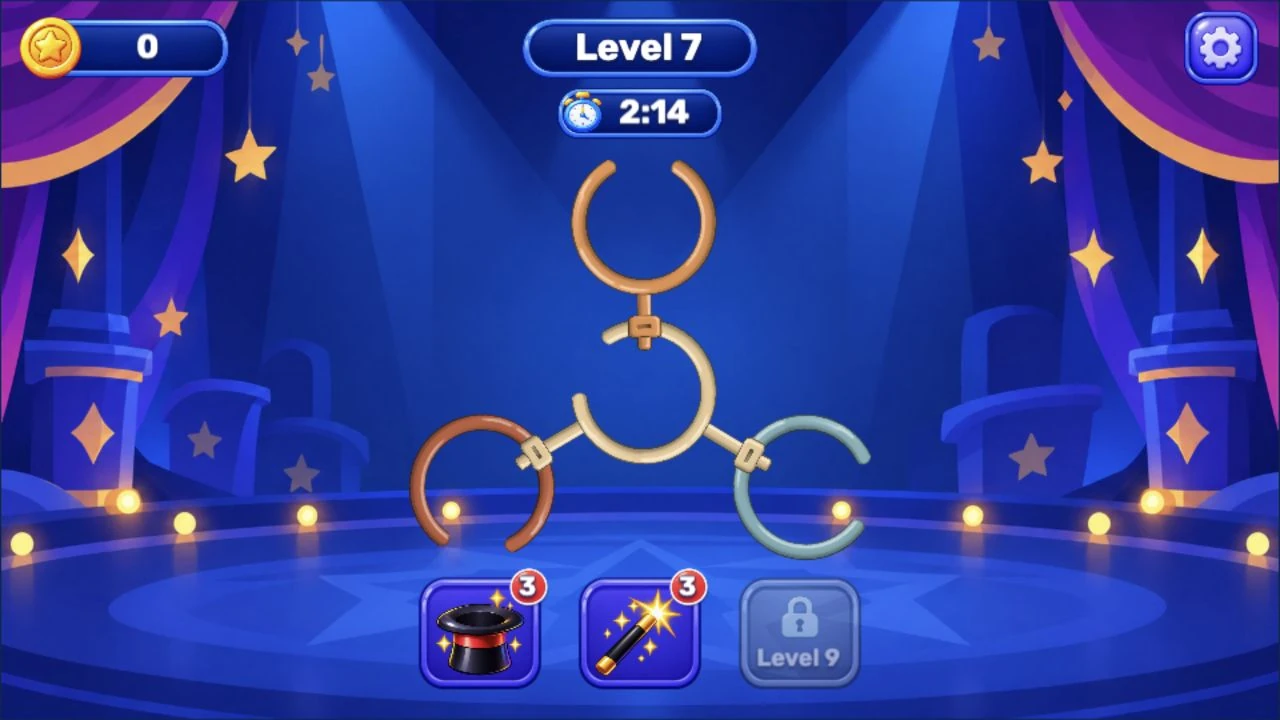
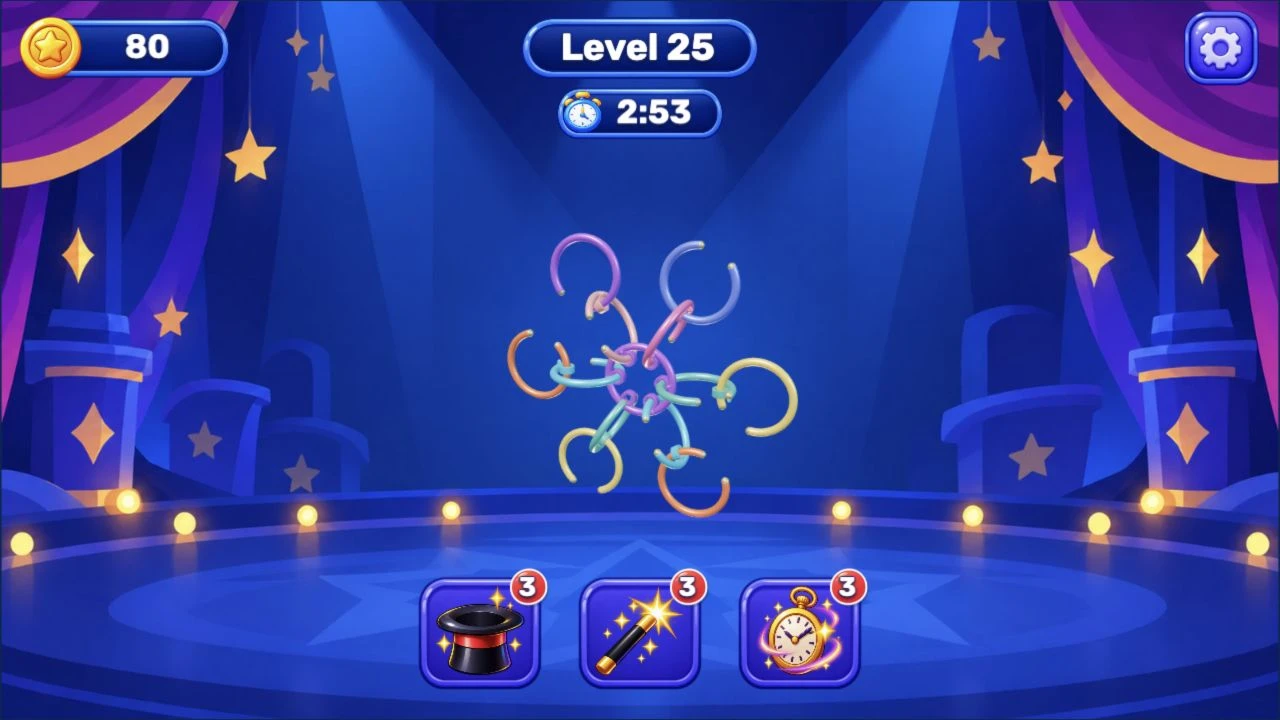
Update Rings portfolio to the Rings 3D release

diff --git a/src/content/games/ru/rings.md b/src/content/games/ru/rings.md
@@ -1,8 +1,8 @@
 ---
 locale: ru
 translationKey: rings
-title: Rings
-description: Головоломка о сцепленных кольцах и металлических фигурах. Поворачивайте и сдвигайте детали, освобождайте крепления и разбирайте конструкцию до истечения времени.
+title: Rings 3D
+description: Пространственная головоломка со 100 уровнями. Вращение сцены помогает найти нужный ракурс, а поворот кольца — освободить его из сцепленной конструкции.
 status: in-development
 genre: Пространственная головоломка
 platforms:
@@ -12,67 +12,78 @@ platforms:
   - Планшет
 technologies:
   - TypeScript 5.9
-  - PixiJS 8.16
-  - GameDevLand Engine 0.0.8
+  - PixiJS 8.22
+  - Three.js 0.187
+  - GameDevLand Engine 0.0.13
   - Vite 8
 roles:
   - Полный цикл разработки игры
-  - Архитектура и игровые системы
-  - Создание 100 уровней
-  - Интерфейс и адаптивная вёрстка
+  - Интеграция Three.js и PixiJS
+  - Создание 100 пространственных уровней
+  - Интерфейс, обучение и визуальные эффекты
 iconImage: /assets/games/rings/icon-rings.webp
-iconAlt: Два разомкнутых кольца золотого и медного цвета, соединённые креплением на синей сцене
 coverImage: /assets/games/rings/cover.webp
-coverAlt: Сцепленные металлические кольца на сцене Rings, таймер и панель усилителей
-screenshots:
-  - title: Освобождайте сцепленные детали
-    landscapeSrc: /assets/games/rings/cover.webp
-    landscapeAlt: Игровое поле Rings с кольцами и креплениями в горизонтальной ориентации
-    portraitSrc: /assets/games/rings/screens/port/gameplay.webp
-    portraitAlt: То же игровое поле Rings, адаптированное под вертикальный экран
-  - title: Разбирайте более сложные конструкции
-    landscapeSrc: /assets/games/rings/screens/land/complex.webp
-    landscapeAlt: Уровень Rings с несколькими сцепленными фигурами в горизонтальной ориентации
-    portraitSrc: /assets/games/rings/screens/port/complex.webp
-    portraitAlt: Та же конструкция с металлическими фигурами в вертикальной ориентации
-  - title: Открывайте усилители по мере прохождения
-    landscapeSrc: /assets/games/rings/screens/land/boosters.webp
-    landscapeAlt: Открытие усилителя Magic Hat в горизонтальной версии Rings
-    portraitSrc: /assets/games/rings/screens/port/boosters.webp
-    portraitAlt: Экран открытия Magic Hat с описанием усилителя на телефоне
 playableUrl: https://gamedevland.github.io/rings/
 orientation: adaptive
 embedAspectRatio: 16 / 9
 order: 1
 draft: false
+iconAlt: Цветные объёмные кольца и крепления в Rings 3D
+coverAlt: Пространственная конструкция из цветных колец на сцене Rings 3D
+screenshots:
+  - title: Два шага обучения
+    landscapeSrc: /assets/games/rings/screens/land/level-001.webp
+    landscapeAlt: Первый уровень Rings 3D с подсказкой о вращении сцены на широком экране
+    portraitSrc: /assets/games/rings/screens/port/level-001.webp
+    portraitAlt: Первый шаг обучения со стрелкой и пальцем на вертикальном экране
+  - title: Разветвлённые конструкции
+    landscapeSrc: /assets/games/rings/screens/land/level-025.webp
+    landscapeAlt: Пространственная головоломка уровня 25 в горизонтальной ориентации
+    portraitSrc: /assets/games/rings/screens/port/level-025.webp
+    portraitAlt: Уровень 25 с несколькими ветвями сцепленных колец на телефоне
+  - title: Кольца в разных плоскостях
+    landscapeSrc: /assets/games/rings/screens/land/level-045.webp
+    landscapeAlt: Объёмная композиция уровня 45 на широком экране
+    portraitSrc: /assets/games/rings/screens/port/level-045.webp
+    portraitAlt: Уровень 45 с кольцами и креплениями в разных плоскостях
+  - title: Поздние уровни кампании
+    landscapeSrc: /assets/games/rings/screens/land/level-098.webp
+    landscapeAlt: Многослойная конструкция уровня 98 в горизонтальной ориентации
+    portraitSrc: /assets/games/rings/screens/port/level-098.webp
+    portraitAlt: Уровень 98 со сложной пространственной конструкцией на вертикальном экране
 ---
 
 <a id="about-the-game" class="translation-anchor" aria-hidden="true"></a>
 
 ## Об игре
 
-Rings — головоломка со 100 уровнями. Кольца, стержни и изогнутые детали соединены креплениями. Нужно найти порядок действий, который позволит освободить все фигуры.
+Rings 3D — головоломка со 100 пространственными уровнями. Кольца расположены в разных плоскостях и соединены небольшими креплениями. Нужно найти порядок поворотов, при котором все детали освободятся.
 
-На уровень отведено три минуты. За прохождение начисляются монеты и от одной до трёх звёзд в зависимости от затраченного времени. Каждые пять побед открывают сундук с усилителем. Текущий уровень, награды и настройки сохраняются между запусками.
+После обучения на уровень отведено три минуты. За прохождение начисляются монеты и от одной до трёх звёзд, а каждые пять побед открывают сундук с усилителем. Незавершённый уровень, награды и настройки сохраняются между запусками.
 
-Доступная игровая сборка — версия игры, находящейся в разработке.
+В начале уровня кольца прилетают с разных сторон и собираются по закрученным траекториям. Освобождённые детали разлетаются вниз с ускорением и вращением. Победу сопровождают конфетти и цветные фейерверки.
 
 <a id="how-to-play" class="translation-anchor" aria-hidden="true"></a>
 
 ## Как играть
 
-Удерживайте деталь мышью или пальцем и перемещайте её в разрешённом направлении. Круглые детали поворачиваются вокруг своего центра, прямые стержни сдвигаются вдоль оси, а S-образные проходят через крепления по своему контуру. Освобождённые фигуры падают с игрового поля.
+Перетаскивание пустого места вращает всю сцену. Так можно выбрать ракурс, при котором видны разрез кольца и удерживающее его крепление. Перетаскивание самого кольца поворачивает его в собственной плоскости. Когда путь выхода свободен, оно падает автоматически.
 
-Если движение заблокировано, деталь коротко встряхнётся. Сначала нужно освободить удерживающие её фигуры. Некоторые замки открываются после удаления указанного количества деталей.
+Первый уровень последовательно обучает обоим жестам: сначала показывает движение по пустому месту, затем указывает нужное кольцо. Во время обучения таймер приостановлен.
 
-По мере прохождения открываются три усилителя: Magic Hat убирает случайное кольцо, Magic Wand — выбранное, Magic Clock добавляет 20 секунд. Музыка и звуки настраиваются через кнопку с шестерёнкой.
+По мере прохождения открываются Magic Hat для случайного кольца, Magic Wand для выбранного и Magic Clock, добавляющий 20 секунд. Музыка и звуки настраиваются через кнопку с шестерёнкой.
 
+<a id="технические-особенности" class="translation-anchor" aria-hidden="true"></a>
 <a id="technical-highlights" class="translation-anchor" aria-hidden="true"></a>
 
-## Технические особенности
+## Three.js внутри текстуры PixiJS
 
-- Игровой процесс организован по цепочке FSM → Command → Scene Service → Domain Model.
-- Геометрия фигур определяет выбор детали, допустимое движение и освобождение креплений.
-- Положение деталей и незавершённый уровень сохраняются; награды за одну попытку начисляются один раз.
-- Поле учитывает размеры фигур и свободное место рядом с интерфейсом, подбирая размещение для вертикального и горизонтального экрана.
-- Локальные текстуры WebP, музыка, звуки и шрифт входят в веб-сборку.
+Three.js рисует модели, материалы и освещение в отдельный canvas. Его изображение становится текстурой одного спрайта PixiJS. Поэтому объёмная головоломка, интерфейс, маски, частицы и переходы собираются в одном видимом игровом canvas.
+
+Текстура обновляется при вращении, движении деталей, анимации и изменении размера экрана. В покое 3D-сцена не перерисовывается. Компонент поля владеет поверхностью рендеринга и экземплярами GLB-моделей и освобождает их при выходе из сцены.
+
+- Three.js отвечает за перспективу, свет, материалы и выбор деталей лучом.
+- PixiJS отвечает за интерфейс, подсказки, частицы и экранные переходы.
+- Допустимое движение и освобождение определяются пространственной геометрией колец и креплений.
+- Игровой поток следует цепочке FSM → Command → Scene Service → Domain Model.
+- Поле и интерфейс адаптируются к вертикальному и горизонтальному экрану.

diff --git a/src/content/games/en/rings.md b/src/content/games/en/rings.md
@@ -1,8 +1,8 @@
 ---
 locale: en
 translationKey: rings
-title: Rings
-description: A puzzle about interlocking rings and metal shapes. Rotate and slide the pieces, release their fasteners, and take the structure apart before time runs out.
+title: Rings 3D
+description: A spatial puzzle with 100 levels. Rotate the scene to find a useful view, then turn individual rings to free them from the interlocking structure.
 status: in-development
 genre: Spatial puzzle
 platforms:
@@ -12,67 +12,78 @@ platforms:
   - Tablet
 technologies:
   - TypeScript 5.9
-  - PixiJS 8.16
-  - GameDevLand Engine 0.0.8
+  - PixiJS 8.22
+  - Three.js 0.187
+  - GameDevLand Engine 0.0.13
   - Vite 8
 roles:
   - Full-cycle game development
-  - Architecture and gameplay systems
-  - Creating 100 levels
-  - UI and responsive layouts
+  - Three.js and PixiJS integration
+  - Creating 100 spatial levels
+  - UI, tutorial and visual effects
 iconImage: /assets/games/rings/icon-rings.webp
-iconAlt: Two open gold and copper rings joined by a fastener on a blue stage
 coverImage: /assets/games/rings/cover.webp
-coverAlt: Interlocking metal rings on the Rings stage, with a timer and booster panel
-screenshots:
-  - title: Free the interlocking pieces
-    landscapeSrc: /assets/games/rings/cover.webp
-    landscapeAlt: The Rings board with rings and fasteners in landscape orientation
-    portraitSrc: /assets/games/rings/screens/port/gameplay.webp
-    portraitAlt: The same Rings board adapted to a portrait screen
-  - title: Take apart more complex structures
-    landscapeSrc: /assets/games/rings/screens/land/complex.webp
-    landscapeAlt: A Rings level with several interlocking shapes in landscape orientation
-    portraitSrc: /assets/games/rings/screens/port/complex.webp
-    portraitAlt: The same structure of metal shapes in portrait orientation
-  - title: Unlock boosters as the campaign progresses
-    landscapeSrc: /assets/games/rings/screens/land/boosters.webp
-    landscapeAlt: Unlocking the Magic Hat booster in the landscape version of Rings
-    portraitSrc: /assets/games/rings/screens/port/boosters.webp
-    portraitAlt: The Magic Hat unlock screen with the booster description on a phone
 playableUrl: https://gamedevland.github.io/rings/
 orientation: adaptive
 embedAspectRatio: 16 / 9
 order: 1
 draft: false
+iconAlt: Colorful three-dimensional rings and clasps in Rings 3D
+coverAlt: A spatial structure of colorful rings on the Rings 3D stage
+screenshots:
+  - title: A two-step tutorial
+    landscapeSrc: /assets/games/rings/screens/land/level-001.webp
+    landscapeAlt: The first Rings 3D level with the scene-rotation instruction on a wide screen
+    portraitSrc: /assets/games/rings/screens/port/level-001.webp
+    portraitAlt: The first tutorial step with an arrow and finger on a portrait screen
+  - title: Branching structures
+    landscapeSrc: /assets/games/rings/screens/land/level-025.webp
+    landscapeAlt: The spatial puzzle in level 25 in landscape orientation
+    portraitSrc: /assets/games/rings/screens/port/level-025.webp
+    portraitAlt: Level 25 with several branches of interlocking rings on a phone
+  - title: Rings in different planes
+    landscapeSrc: /assets/games/rings/screens/land/level-045.webp
+    landscapeAlt: The three-dimensional composition in level 45 on a wide screen
+    portraitSrc: /assets/games/rings/screens/port/level-045.webp
+    portraitAlt: Level 45 with rings and clasps in different planes
+  - title: Late campaign levels
+    landscapeSrc: /assets/games/rings/screens/land/level-098.webp
+    landscapeAlt: The layered structure in level 98 in landscape orientation
+    portraitSrc: /assets/games/rings/screens/port/level-098.webp
+    portraitAlt: Level 98 with a complex spatial structure on a portrait screen
 ---
 
 <a id="об-игре" class="translation-anchor" aria-hidden="true"></a>
 
 ## About the game
 
-Rings is a puzzle game with 100 levels. Rings, rods, and curved pieces are joined by fasteners. The goal is to find the sequence of moves that frees every piece.
+Rings 3D is a puzzle with 100 spatial levels. Rings sit in different planes and connect through small clasps. The goal is to find the sequence of turns that frees every piece.
 
-Each level has a three-minute timer. Completing it awards coins and one to three stars based on the time taken. Every five victories unlock a booster chest. The current level, rewards, and settings are saved between sessions.
+After the tutorial, each level has a three-minute timer. Completing it awards coins and one to three stars; every five victories unlock a booster chest. Unfinished levels, rewards and settings persist between sessions.
 
-The playable build is an in-development version of the game.
+At the start of a level, rings arrive from different directions along spiraling paths and assemble into the puzzle. Released pieces scatter downward with acceleration and tumble. Confetti and colorful fireworks celebrate each victory.
 
 <a id="как-играть" class="translation-anchor" aria-hidden="true"></a>
 
 ## How to play
 
-Hold a piece with the mouse or a finger and drag it in an allowed direction. Circular pieces rotate around their centers, straight rods slide along their axes, and S-shaped pieces follow their contours through the fasteners. Freed pieces fall off the board.
+Dragging empty space rotates the whole scene. This reveals the ring opening and the clasp holding it. Dragging a ring turns it in its own plane. As soon as its extraction path is clear, it falls automatically.
 
-If a move is blocked, the piece briefly shakes. The pieces holding it in place need to be freed first. Some locks open after the indicated number of pieces have been removed.
+The first level teaches both gestures in order: an empty-space swipe, followed by a gesture on the indicated ring. The countdown pauses during the tutorial.
 
-Three boosters unlock during the campaign: Magic Hat removes a random ring, Magic Wand removes a selected ring, and Magic Clock adds 20 seconds. The gear button opens the music and sound settings.
+Magic Hat removes a random ring, Magic Wand removes a selected ring, and Magic Clock adds 20 seconds. These boosters unlock as the campaign progresses. The gear button opens the music and sound settings.
 
+<a id="technical-highlights" class="translation-anchor" aria-hidden="true"></a>
 <a id="технические-особенности" class="translation-anchor" aria-hidden="true"></a>
 
-## Technical highlights
+## Three.js inside a PixiJS texture
 
+Three.js renders the models, materials and lighting into a separate canvas. Its image becomes the texture of a single PixiJS sprite. This brings the spatial puzzle, UI, masks, particles and transitions together in one visible game canvas.
+
+The texture updates when the scene rotates, pieces move, animations play or the screen changes size. An idle 3D scene does not redraw. The board component owns the render surface and GLB model instances and releases them when the scene exits.
+
+- Three.js handles perspective, lighting, materials and mesh raycasting.
+- PixiJS handles the UI, gesture hints, particles and screen transitions.
+- Ring and clasp geometry determine allowed movement and extraction.
 - Gameplay follows FSM → Command → Scene Service → Domain Model.
-- Piece geometry determines selection, allowed movement, and fastener release.
-- Piece positions and unfinished levels are saved; rewards are paid once per attempt.
-- The board uses piece dimensions and the space around the UI to arrange each puzzle for portrait and landscape screens.
-- Local WebP textures, music, sound effects, and the font are included in the web build.
+- The board and UI adapt to portrait and landscape screens.
